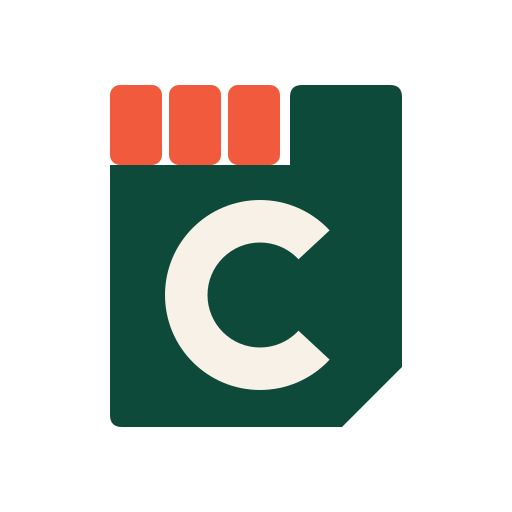
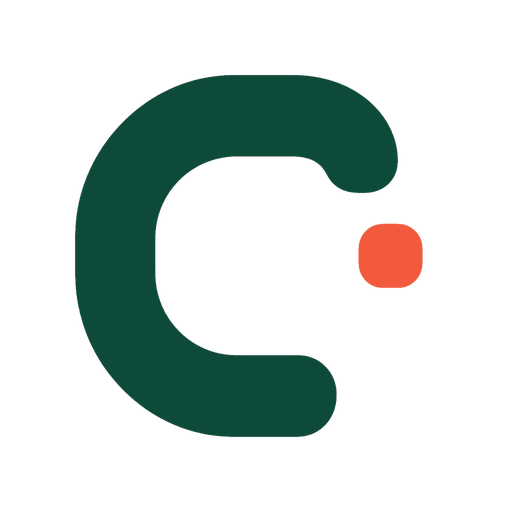
feat(brand): ship cornershopdev identity

Changed region(s): [[0.125, 0.125, 0.8438, 0.875]]

diff --git a/docs/brand/cornershopdev/DESIGN.md b/docs/brand/cornershopdev/DESIGN.md
@@ -1,7 +1,7 @@
 ---
 version: "beta"
 name: Cornershopdev
-description: Dark technical factory identity built around a folded storefront tile and a clear C.
+description: Dark technical factory identity built around a custom C and a centered coral point.
 colors:
   primary: "#F7F7F4"
   on-primary: "#050505"
@@ -87,6 +87,10 @@ The identity is inspired by the clarity of modern developer tooling, not by any
 single product composition. It must remain original and should never reproduce a
 third party's copy, assets, component geometry or distinctive page structure.
 
+The mark uses one direct custom C and one coral point, optically centered in the
+C's open-right side. The result should feel useful, memorable and human without
+softening the technical factory system around it.
+
 ## Colors
 
 - **Factory black (`#050505`):** the default Cornershopdev marketing surface.
@@ -97,9 +101,10 @@ third party's copy, assets, component geometry or distinctive page structure.
 - **Coral (`#FF775F`):** brand accent for commands, labels and directional cues.
 - **Signal green (`#74D7A4`):** operational status only: live, ready or healthy.
 
-The existing logo keeps its exact factory green (`#0D4A39`), coral
-(`#F15A3D`) and cream (`#F7F1E7`). The brighter page accents are interface
-tokens chosen for contrast on black; they do not modify the raster mark.
+The two logo colors are exact flat sRGB values. Do not sample softened colors
+from the generated concept board: factory green (`#0D4A39`) and coral
+(`#F15A3D`). The brighter page accents are interface tokens chosen for contrast
+on black; they do not modify the raster mark.
 
 ## Typography
 
@@ -142,14 +147,16 @@ Factory interface cards use tighter corners than the niche storefronts. Data
 panels and architecture modules are usually rectangular. Pills are reserved for
 compact status lines.
 
-The mark itself still uses one clipped page tile, exactly three awning tabs and
-one C. Keep the 45-degree lower-right fold and equal transparent canvas padding.
-Do not add windows, doors, carts, bags, gears or extra modular blocks.
+The mark uses one continuous C and one detached rounded-square point. Keep the
+point centered on the C's horizontal axis, preserve the open-right silhouette
+and use equal transparent canvas padding. Do not add a tile, storefront,
+windows, doors, carts, bags, gears or extra modular blocks.
 
 ## Components
 
-- **Brand mark:** `public/brand/cornershopdev/logo-square.png` is the 1024 × 1024
-  transparent RGBA master.
+- **Brand mark:** `public/brand/cornershopdev/logo-square.png` is the 1024 ×
+  1024 transparent RGBA master. It contains only exact factory green, exact
+  coral and alpha.
 - **Header mark:** use the 512px derivative; render it at 36px.
 - **Browser chrome:** use the dedicated 32px favicon and 180px Apple touch icon.
 - **Primary button:** warm-white background, factory-black text, 44px height.
@@ -177,9 +184,14 @@ appearance.
 - Do expose real registry, theme-library and pipeline concepts.
 - Do keep primary and supporting copy at WCAG AA contrast on black.
 - Do route visitors clearly to live niche products, themes and source.
-- Do preserve the folded lower-right corner and three-tab awning.
+- Do preserve the single C and centered coral point.
+- Do keep the C readable at 16px.
+- Do use the exact factory green and coral values in the mark.
 - Do keep every raster export square with a transparent exterior.
 - Don't use the warm paper grid, editorial serif scale or hospitality palette.
 - Don't fake command output, customer counts, uptime or deployment activity.
+- Don't add gradients, texture, highlights, shadows or an enclosing app tile.
+- Don't move the point onto a text baseline or into the C's counter.
+- Don't turn the mark into a generic shopping bag or SaaS cube.
 - Don't copy third-party code, wording, assets or recognizable compositions.
 - Don't use the Cornershopdev identity on a niche storefront or generated site.

diff --git a/docs/brand-concepts/README.md b/docs/brand-concepts/README.md
@@ -1,11 +1,12 @@
 # Brand identity concepts
 
-Generated with the built-in OpenAI image generator on 2026-07-26. These are
-directional review boards. Cornershopdev 02 and Restofrontapp 05 are the selected
-directions. Their chosen artwork has been rebuilt as flat, transparent production
-assets under `public/brand/cornershopdev/` and `public/brand/restofrontapp/`.
-Each identity has a 1024 × 1024 master plus favicon derivatives and a linted
-DESIGN.md specification.
+Generated with the built-in OpenAI image generator on 2026-07-26 and refined on
+2026-07-27. These are directional review boards. Cornershopdev 04 and
+Restofrontapp 05 are the selected directions. Their chosen artwork has been
+rebuilt as flat, transparent production assets under
+`public/brand/cornershopdev/` and `public/brand/restofrontapp/`. Each identity
+has a 1024 × 1024 master plus favicon derivatives and a linted DESIGN.md
+specification.
 
 ## Cornershopdev
 
@@ -20,7 +21,7 @@ space. Show a standalone mark, horizontal wordmark, and favicon tile. Use
 charcoal, warm cream, and burnt orange. Keep the silhouette bold and avoid
 shopping carts, globes, gears, clip art, gradients, slogans, and extra text.
 
-### 02 — Folded corner (selected)
+### 02 — Folded corner
 
 ![Folded corner concept](./cornershopdev-02-folded-corner.png)
 
@@ -42,6 +43,15 @@ letter C, expressing one system creating many storefronts. Show a standalone
 mark, exact wordmark, and favicon tile. Use near-black, warm stone, and cobalt.
 Avoid generic cubes, blockchain aesthetics, corporate SaaS symbols, gradients,
 slogans, and extra text.
+
+### 04 — C dot (selected)
+
+![Selected C dot mark](./cornershopdev-04-c-dot.png)
+
+Prompt: Reduce Cornershopdev to one custom forest-green C and one coral point.
+Keep the point detached and optically centered in the C's open-right gap. Make
+the silhouette clear at 16px, preserve transparent square padding and avoid
+storefronts, awnings, pages, tiles, arrows, gradients, shadows and SaaS loops.
 
 ## Restofrontapp
 

diff --git a/design-qa.md b/design-qa.md
@@ -1,0 +1,32 @@
+# Cornershopdev brand QA
+
+## Reference
+
+- Approved direction: `docs/brand-concepts/cornershopdev-04-c-dot.png`
+- Mark: one custom factory-green C with one detached coral point, optically
+  centered in the open-right gap
+- Palette: factory green `#0D4A39`, coral `#F15A3D`, transparent exterior
+
+## Production exports
+
+- `public/brand/cornershopdev/logo-square.png`: 1024 × 1024 RGBA master
+- `public/brand/cornershopdev/mark.png`: 512 × 512 RGBA header mark
+- `public/brand/cornershopdev/apple-touch-icon.png`: 180 × 180 RGBA touch icon
+- `public/brand/cornershopdev/favicon-32.png`: 32 × 32 RGBA favicon
+- `src/app/favicon.ico`: multi-size browser favicon
+
+The master contains only the two exact flat sRGB brand colors plus alpha. All
+four corners are transparent.
+
+## Browser verification
+
+- Desktop: verified on the factory homepage at 1280 × 720. The 48px source
+  renders cleanly in the header with correct wordmark spacing and no clipping.
+- Mobile: verified at 390 × 844. The mark renders at 36 × 36, the wordmark stays
+  legible, and the navigation remains contained with no horizontal overflow.
+- Browser metadata: the generated favicon, dedicated 32px favicon and 180px
+  Apple touch icon all resolve from the page.
+- Responsive page state: hero copy, controls and header remain readable at both
+  inspected viewports.
+
+final result: passed
